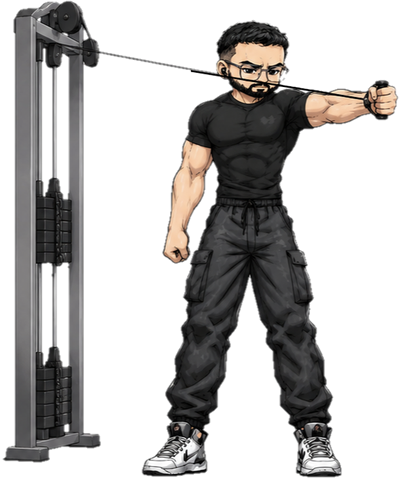
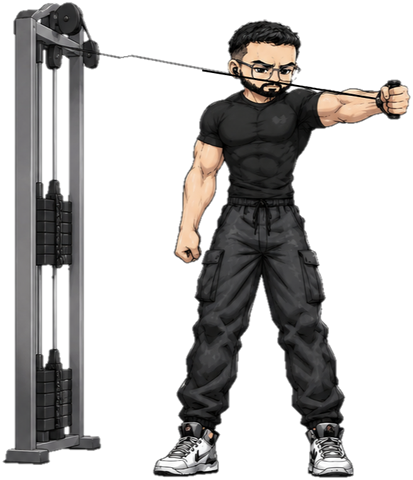
Add files via upload

diff --git a/index.html b/index.html
@@ -99,7 +99,7 @@ function filled(w,k){var d=w.days[k];if(!d)return false;for(var i in d.ex){var e
 var DEMO={"db lateral raises":["lat-down.png","lat-up.png","96px","3/4"],"db flat chest press":["chest-down.png","chest-up.png","140px","420/327"],"db biceps curl":["biceps-down.png","biceps-up.png","118px","360/451"],"t-bar row":["tbar-down.png","tbar-up.png","124px","360/373"],
 "ng lat row":["nglat-relaxed.png","nglat-pulled.png","140px","420/403"],"sa triceps pushdown":["tri-relaxed.png","tri-extended.png","88px","243/420"],"face away curl":["curl-relaxed.png","curl-bended.png","100px","279/420"],"shoulder press":["shpress-down.png","shpress-up.png","104px","292/420"],"wg lat pulldown":["wg-up.png","wg-down.png","101px","282/420"],
 "cable rear delt fly":["sacablefly-relaxed.png","sacablefly-pulled.png","120px","339/420"],"leg extension":["legext-down.png","legext-up.png","107px","785/1024"],"seated leg curl":["slc4-up.png","slc2-curled.png","118px","794/936"],"sa cable lateral raises":["salat-relaxed.png","salat-raised.png","107px","778/1024"],"reverse curl":["revcurl-down.png","revcurl-up.png","112px","286/420"],"wrist curl":["wristcurl-down.png","wristcurl-up.png","112px","323/420"],"overhead triceps extension":["ohtri-bent.png","ohtri-extended.png","92px","269/420"],"smith shrugs":["smithshrug-down.png","smithshrug-up2.png","104px","316/420"],"leg press calf raises":["legpresscalf.png",null,"130px","419/420"],"leg press":["legpress-down.png","legpress-up.png","130px","447/420"],"wide chest press machine":["widechest-down.png","widechest-up.png","110px","913/1220"],"inclined chest press machine":["inclinedchest-down.png","inclinedchest-up.png","118px","307/420"]};
-var DEMOZ={"db lateral raises":["ziad-lat-down.png","ziad-lat-up.png","98px","366/480"],"db biceps curl":["ziad-biceps-down.png","ziad-biceps-up.png","123px","400/480"],"ng lat row":["ziad-nglat-relaxed.png","ziad-nglat-pulled.png","142px","506/480"],"wg lat pulldown":["ziad-wg-relaxed.png","ziad-wg-pulled.png","101px","322/480"],"sa cable lateral raises":["ziad-salat-down.png","ziad-salat-up.png","104px","356/480"],"smith shrugs":["ziad-smithshrug-down.png","ziad-smithshrug-up.png","105px","366/480"],"leg press":["ziad-legpress-down.png","ziad-legpress-up.png","128px","502/480"],"wide chest press machine":["ziad-widechest-down.png","ziad-widechest-up.png","118px","384/480"],"inclined chest press machine":["ziad-inclinedchest-down.png","ziad-inclinedchest-up.png","118px","350/480"],"t-bar row":["ziad-tbar-down.png","ziad-tbar-up.png","123px","460/480"],"cable rear delt fly":["ziad-sacablefly-relaxed.png","ziad-sacablefly-pulled.png","124px","401/480"]};
+var DEMOZ={"db lateral raises":["ziad-lat-down.png","ziad-lat-up.png","98px","366/480"],"db biceps curl":["ziad-biceps-down.png","ziad-biceps-up.png","123px","400/480"],"ng lat row":["ziad-nglat-relaxed.png","ziad-nglat-pulled.png","142px","506/480"],"wg lat pulldown":["ziad-wg-relaxed.png","ziad-wg-pulled.png","101px","322/480"],"sa cable lateral raises":["ziad-salat-down.png","ziad-salat-up.png","104px","356/480"],"smith shrugs":["ziad-smithshrug-down.png","ziad-smithshrug-up.png","105px","366/480"],"leg press":["ziad-legpress-down.png","ziad-legpress-up.png","128px","502/480"],"wide chest press machine":["ziad-widechest-down.png","ziad-widechest-up.png","118px","384/480"],"inclined chest press machine":["ziad-inclinedchest-down.png","ziad-inclinedchest-up.png","118px","350/480"],"t-bar row":["ziad-tbar-down.png","ziad-tbar-up.png","123px","460/480"],"cable rear delt fly":["ziad-sacablefly-relaxed.png","ziad-sacablefly-pulled.png","128px","413/480"],"seated leg curl":["ziad-slc-up.png","ziad-slc-down.png","103px","357/480"],"overhead triceps extension":["ziad-ohtri-bent.png","ziad-ohtri-extended.png","89px","296/480"]};
 var CH={omar:{n:"Omar",img:"figure.png"},ziad:{n:"Ziad",img:"ziad.png"},dardiry:{n:"Dardiry",img:"dardiry.png"},jamal:{n:"Jamal",img:"jamal.png"}},CK=["omar","ziad","dardiry","jamal"];
 function charId(){try{var c=localStorage.getItem("wl_char");if(c&&CH[c])return c}catch(e){}return"omar"}
 var ovPushed=false,ignorePop=false;

diff --git a/sw.js b/sw.js
@@ -1,4 +1,4 @@
-var C="workout-v37",F=["./","index.html","manifest.webmanifest","icon-192.png","icon-512.png","figure.png","ziad.png","dardiry.png","jamal.png","lat-up.png","lat-down.png","chest-up.png","chest-down.png","biceps-up.png","biceps-down.png","tbar-up.png","tbar-down.png","nglat-relaxed.png","nglat-pulled.png","tri-relaxed.png","tri-extended.png","curl-relaxed.png","curl-bended.png","shpress-down.png","shpress-up.png","wg-up.png","wg-down.png","sacablefly-relaxed.png","sacablefly-pulled.png","legext-down.png","legext-up.png","slc4-up.png","slc2-curled.png","salat-relaxed.png","salat-raised.png","revcurl-down.png","revcurl-up.png","wristcurl-down.png","wristcurl-up.png","ohtri-bent.png","ohtri-extended.png","smithshrug-down.png","smithshrug-up2.png","legpresscalf.png","legpress-down.png","legpress-up.png","widechest-down.png","widechest-up.png","inclinedchest-down.png","inclinedchest-up.png","ziad-lat-down.png","ziad-lat-up.png","ziad-biceps-down.png","ziad-biceps-up.png","ziad-nglat-relaxed.png","ziad-nglat-pulled.png","ziad-wg-relaxed.png","ziad-wg-pulled.png","ziad-salat-down.png","ziad-salat-up.png","ziad-smithshrug-down.png","ziad-smithshrug-up.png","ziad-legpress-down.png","ziad-legpress-up.png","ziad-widechest-down.png","ziad-widechest-up.png","ziad-inclinedchest-down.png","ziad-inclinedchest-up.png","ziad-tbar-down.png","ziad-tbar-up.png","ziad-sacablefly-relaxed.png","ziad-sacablefly-pulled.png"];
+var C="workout-v38",F=["./","index.html","manifest.webmanifest","icon-192.png","icon-512.png","figure.png","ziad.png","dardiry.png","jamal.png","lat-up.png","lat-down.png","chest-up.png","chest-down.png","biceps-up.png","biceps-down.png","tbar-up.png","tbar-down.png","nglat-relaxed.png","nglat-pulled.png","tri-relaxed.png","tri-extended.png","curl-relaxed.png","curl-bended.png","shpress-down.png","shpress-up.png","wg-up.png","wg-down.png","sacablefly-relaxed.png","sacablefly-pulled.png","legext-down.png","legext-up.png","slc4-up.png","slc2-curled.png","salat-relaxed.png","salat-raised.png","revcurl-down.png","revcurl-up.png","wristcurl-down.png","wristcurl-up.png","ohtri-bent.png","ohtri-extended.png","smithshrug-down.png","smithshrug-up2.png","legpresscalf.png","legpress-down.png","legpress-up.png","widechest-down.png","widechest-up.png","inclinedchest-down.png","inclinedchest-up.png","ziad-lat-down.png","ziad-lat-up.png","ziad-biceps-down.png","ziad-biceps-up.png","ziad-nglat-relaxed.png","ziad-nglat-pulled.png","ziad-wg-relaxed.png","ziad-wg-pulled.png","ziad-salat-down.png","ziad-salat-up.png","ziad-smithshrug-down.png","ziad-smithshrug-up.png","ziad-legpress-down.png","ziad-legpress-up.png","ziad-widechest-down.png","ziad-widechest-up.png","ziad-inclinedchest-down.png","ziad-inclinedchest-up.png","ziad-tbar-down.png","ziad-tbar-up.png","ziad-sacablefly-relaxed.png","ziad-sacablefly-pulled.png","ziad-slc-up.png","ziad-slc-down.png","ziad-ohtri-bent.png","ziad-ohtri-extended.png"];
 self.addEventListener("install",function(e){e.waitUntil(caches.open(C).then(function(c){return c.addAll(F)}));self.skipWaiting()});
 self.addEventListener("activate",function(e){e.waitUntil(caches.keys().then(function(k){return Promise.all(k.filter(function(n){return n!==C}).map(function(n){return caches.delete(n)}))}));self.clients.claim()});
 self.addEventListener("fetch",function(e){if(e.request.method!=="GET")return;e.respondWith(fetch(e.request).then(function(r){var c=r.clone();caches.open(C).then(function(x){x.put(e.request,c)});return r}).catch(function(){return caches.match(e.request).then(function(m){return m||caches.match("index.html")})}))});
